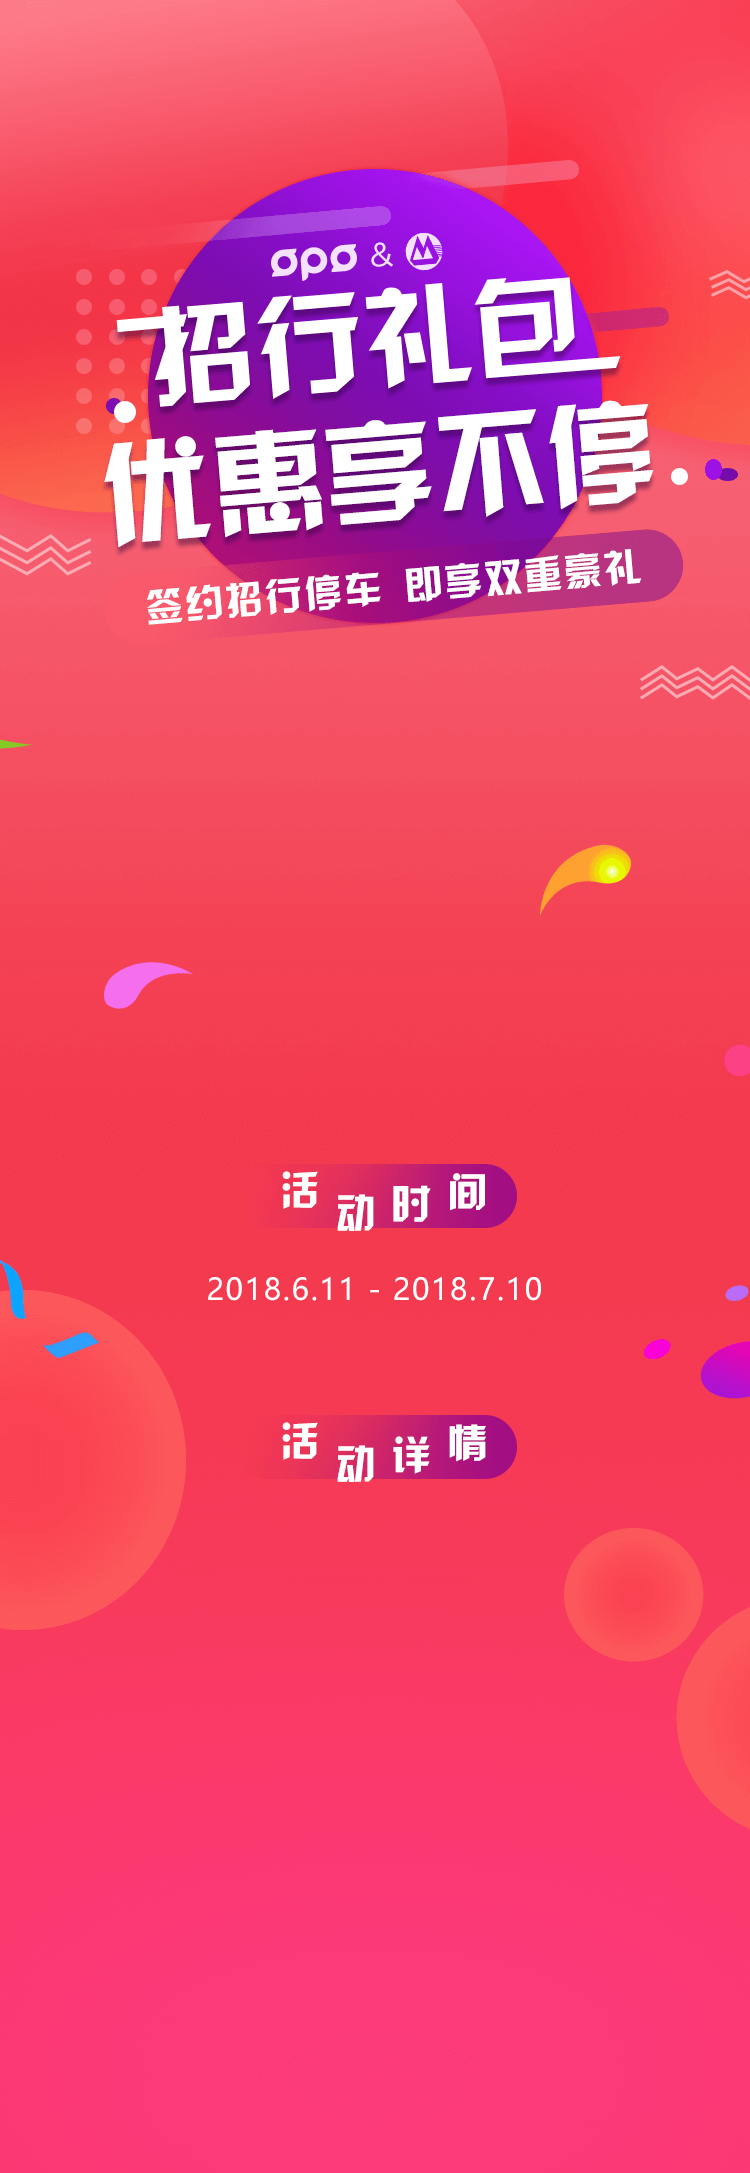
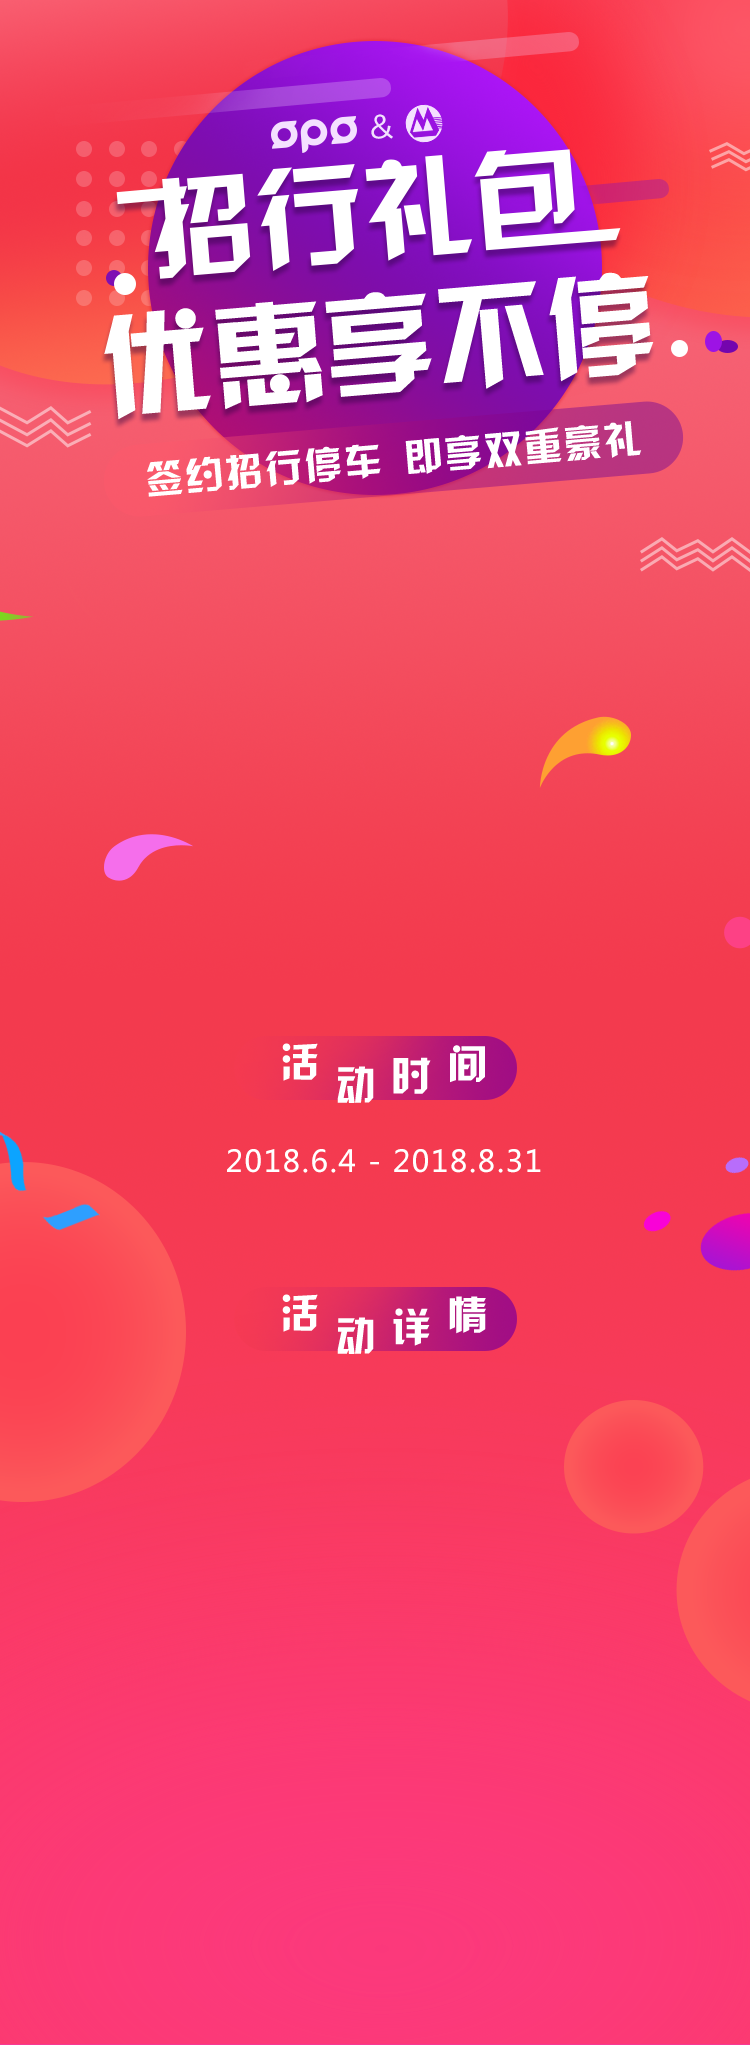
修改活动时间

diff --git a/css/cmbcActive.css b/css/cmbcActive.css
@@ -16,7 +16,7 @@
 
 .cmbc_btnbg {
   position: absolute;
-  top: 33%;
+  top: 30%;
   width: 78%;
   left: 10%;
 }
